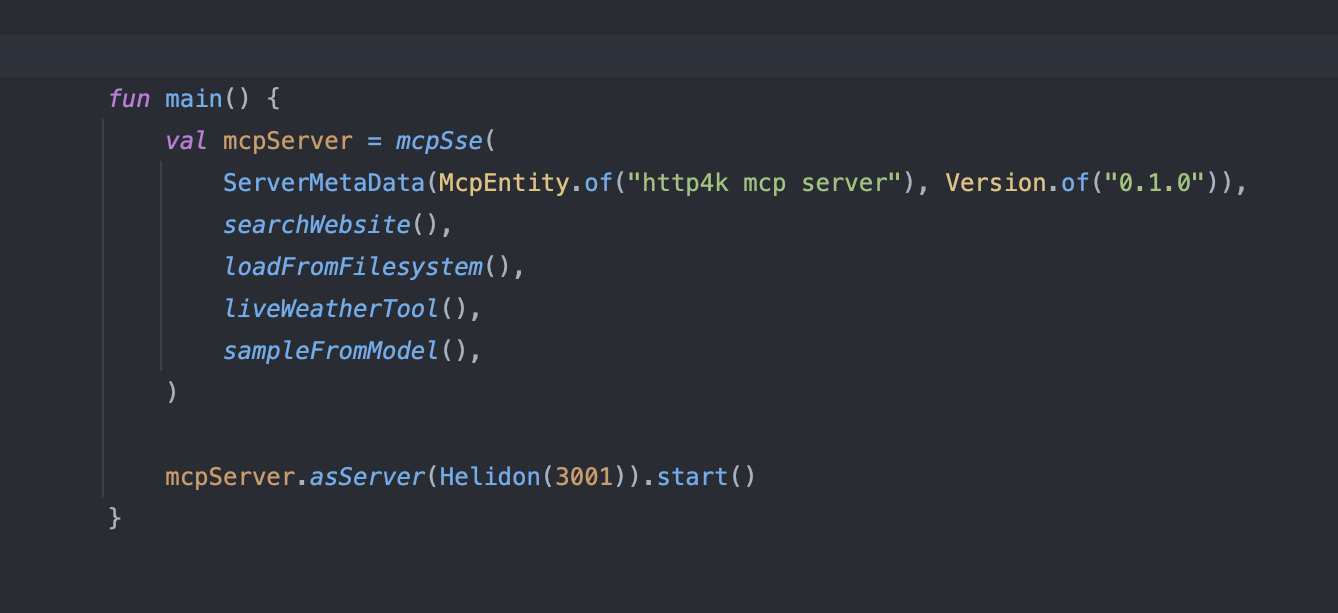
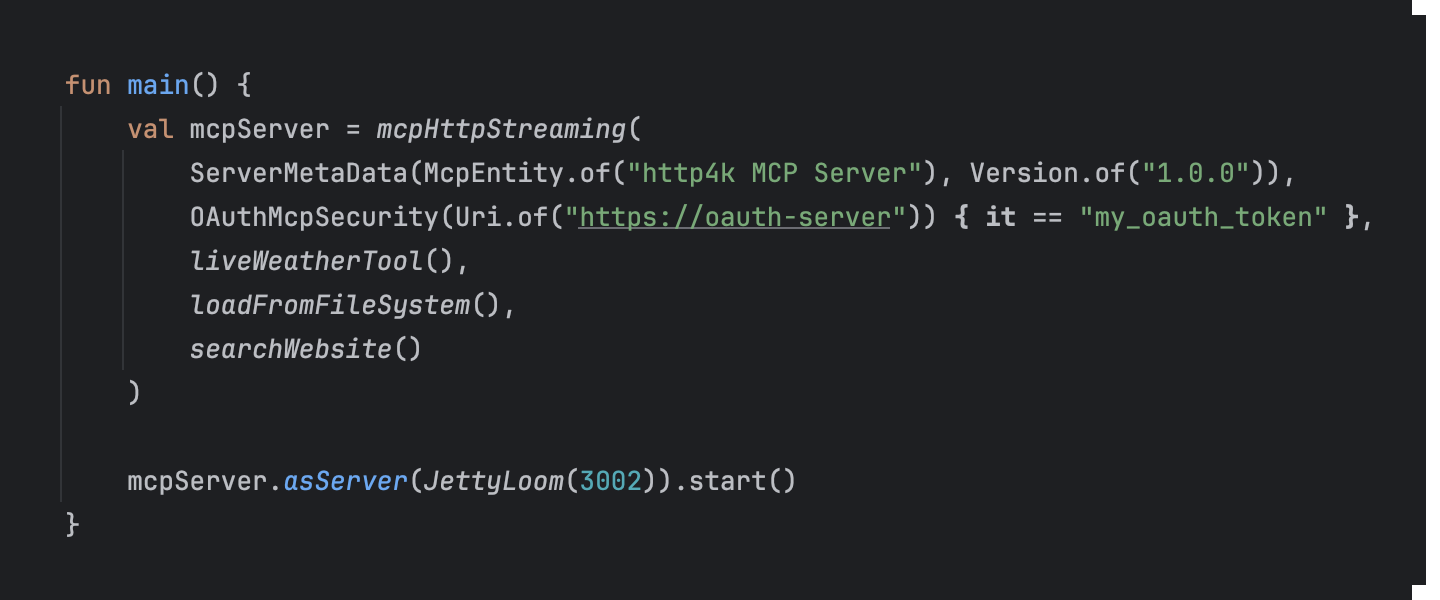
Update images

diff --git a/src/website/content/_sites/mcp/server_example.kt b/src/website/content/_sites/mcp/server_example.kt
@@ -1,0 +1,45 @@
+package content._sites.mcp
+
+import org.http4k.core.Uri
+import org.http4k.mcp.ToolRequest
+import org.http4k.mcp.ToolResponse
+import org.http4k.mcp.model.Content
+import org.http4k.mcp.model.McpEntity
+import org.http4k.mcp.model.Tool
+import org.http4k.mcp.model.string
+import org.http4k.mcp.protocol.ServerMetaData
+import org.http4k.mcp.protocol.Version
+import org.http4k.mcp.server.capability.ToolCapability
+import org.http4k.mcp.server.security.OAuthMcpSecurity
+import org.http4k.routing.bind
+import org.http4k.routing.mcpHttpStreaming
+import org.http4k.server.JettyLoom
+import org.http4k.server.asServer
+
+
+fun main() {
+    val mcpServer = mcpHttpStreaming(
+        ServerMetaData(McpEntity.of("http4k MCP Server"), Version.of("1.0.0")),
+        OAuthMcpSecurity(Uri.of("https://oauth-server")) { it == "my_oauth_token" },
+        liveWeatherTool(),
+        loadFromFileSystem(),
+        searchWebsite()
+    )
+
+    mcpServer.asServer(JettyLoom(3002)).start()
+}
+
+
+fun liveWeatherTool(): ToolCapability {
+    val input = Tool.Arg.string().required("city")
+    return Tool(
+        "weather",
+        "Checks the weather for a particular city.", input
+    ) bind { request: ToolRequest ->
+        ToolResponse.Ok(listOf(Content.Text("Sunny and 100 degrees")))
+    }
+}
+
+
+fun loadFromFileSystem(): ToolCapability = TODO()
+fun searchWebsite(): ToolCapability = TODO()

diff --git a/src/website/content/_sites/mcp/client_example.kt b/src/website/content/_sites/mcp/client_example.kt
@@ -1,0 +1,21 @@
+package content._sites.mcp
+
+import org.http4k.connect.model.ToolName
+import org.http4k.core.Uri
+import org.http4k.mcp.ToolRequest
+import org.http4k.mcp.client.http.HttpStreamingMcpClient
+import org.http4k.mcp.model.McpEntity
+import org.http4k.mcp.protocol.Version
+
+fun main() {
+
+    val mcpClient = HttpStreamingMcpClient(
+        McpEntity.of("http4k mcp client"), Version.of("1.0.0"),
+        Uri.of("http://localhost:3001/mcp"),
+    )
+
+    mcpClient.start()
+
+    mcpClient.tools().call(ToolName.of("weather"), ToolRequest(mapOf("city" to "london")))
+
+}
